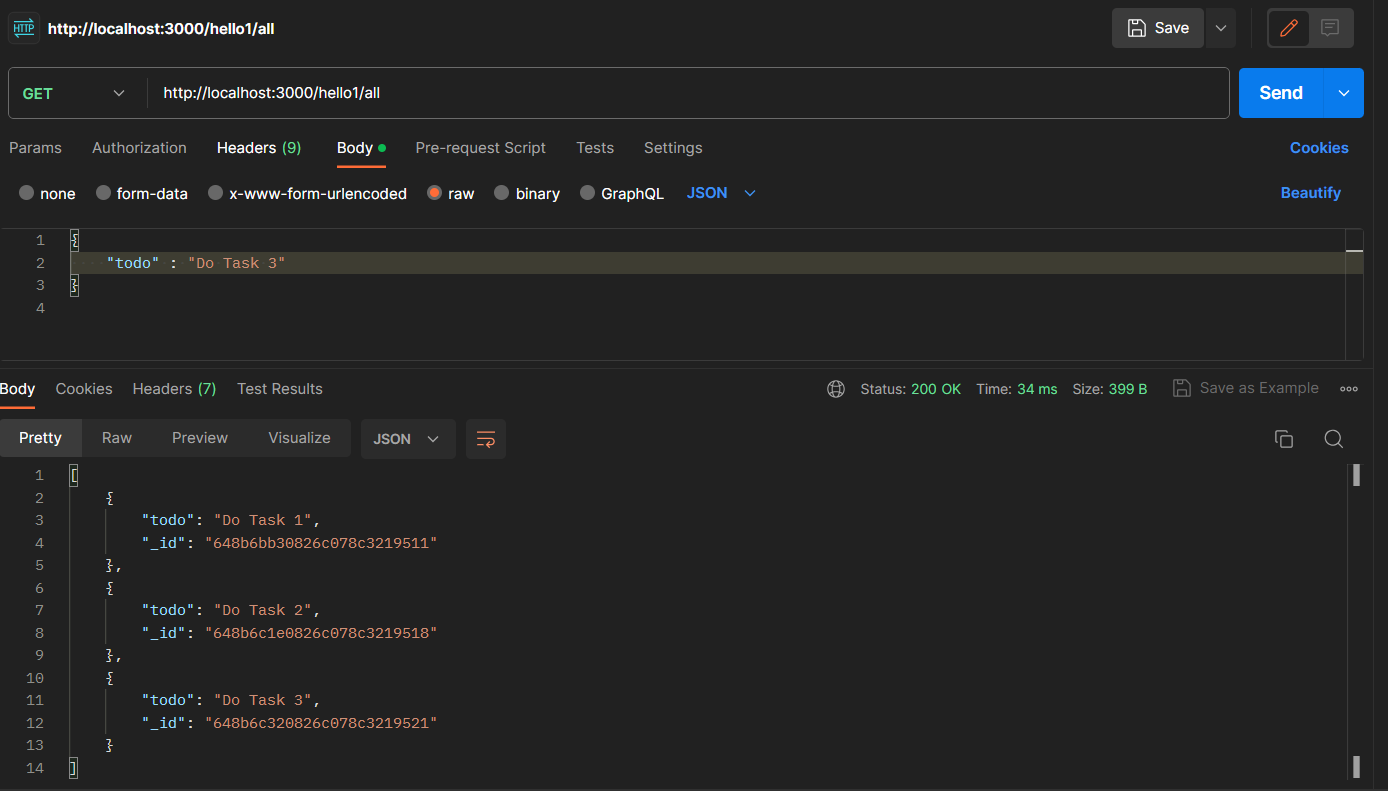
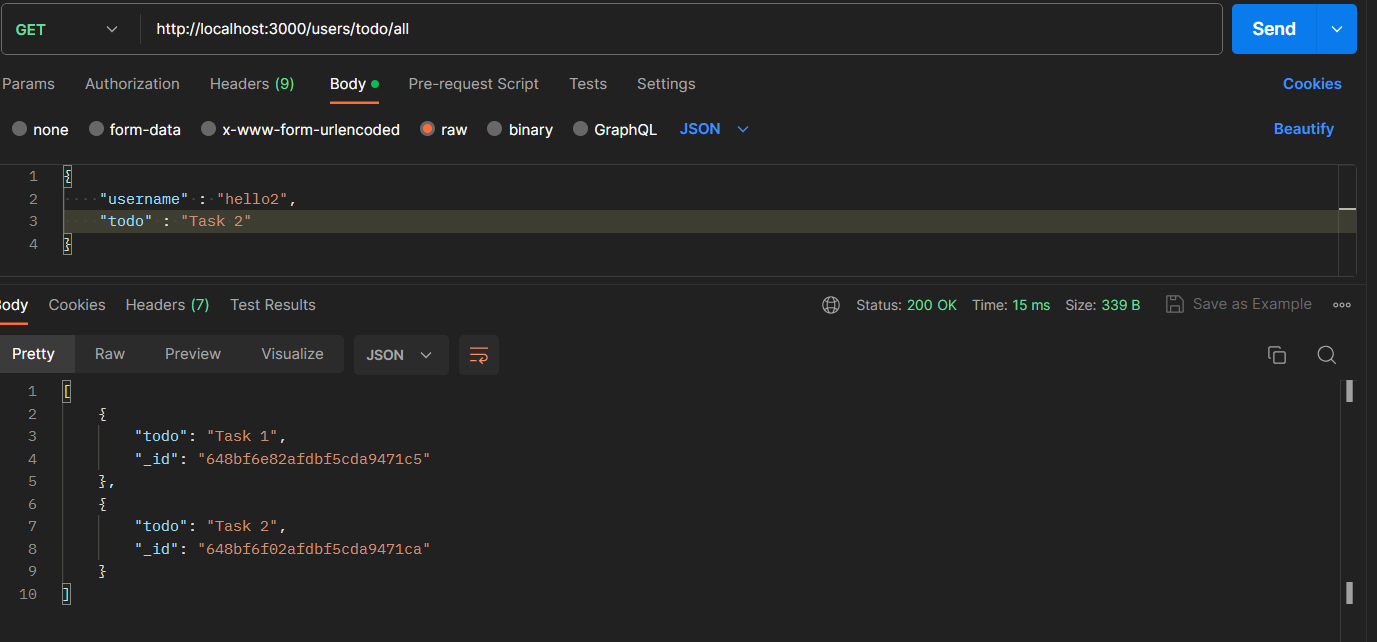
url changes

diff --git a/index.js b/index.js
@@ -63,9 +63,9 @@ app.get('/users/all', function(req, res) {
   });
 
 // 1. Add a to-do
-app.post('/users/:username/todos',function(req,res){
-    const username = req.params.username;
-    const todo = req.body.todo;
+app.post('/users/addtodos',function(req,res){
+    const username = req.body.username;
+    const todo = req.body.todo; 
     
 
   // Generate a unique ID for the todo task
@@ -100,8 +100,8 @@ app.post('/users/:username/todos',function(req,res){
 });
 
 // 2. Change a to-do
-app.post('/:username/change/:todoid',function(req,res){
-    const username = req.params.username;
+app.post('/users/change/:todoid',function(req,res){
+    const username = req.body.username;
     const todoid = req.params.todoid;
     // Get the user from the database
     User.findOne({ username: username }).then(function(user) {
@@ -135,8 +135,8 @@ app.post('/:username/change/:todoid',function(req,res){
 });
 
 // 3. Delete a to-do (do a soft delete)
-app.delete('/:username/:todoid',function(req,res){
-    const username = req.params.username;
+app.delete('/users/todo/:todoid',function(req,res){
+    const username = req.body.username;
   const todoid = req.params.todoid;
 
   User.findOne({ username: username })
@@ -169,8 +169,8 @@ app.delete('/:username/:todoid',function(req,res){
 });
 
 // 4. List all todos
-app.get('/:username/all',function(req,res){
-    const username = req.params.username;
+app.get('/users/todo/all',function(req,res){
+    const username = req.body.username;
 
     User.findOne({ username: username })
       .then((user) => {
@@ -188,8 +188,8 @@ app.get('/:username/all',function(req,res){
 
 // 5. Return a todo
 // Assuming the first todo is expected 
-app.get('/:username/first',function(req,res){
-    const username = req.params.username;
+app.get('/user/first',function(req,res){
+    const username = req.body.username;
 
     User.findOne({ username: username })
       .then((user) => {
